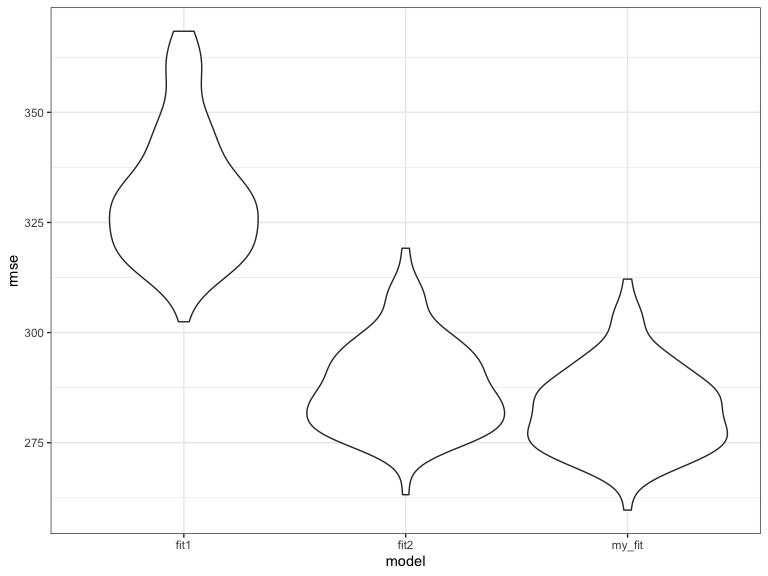
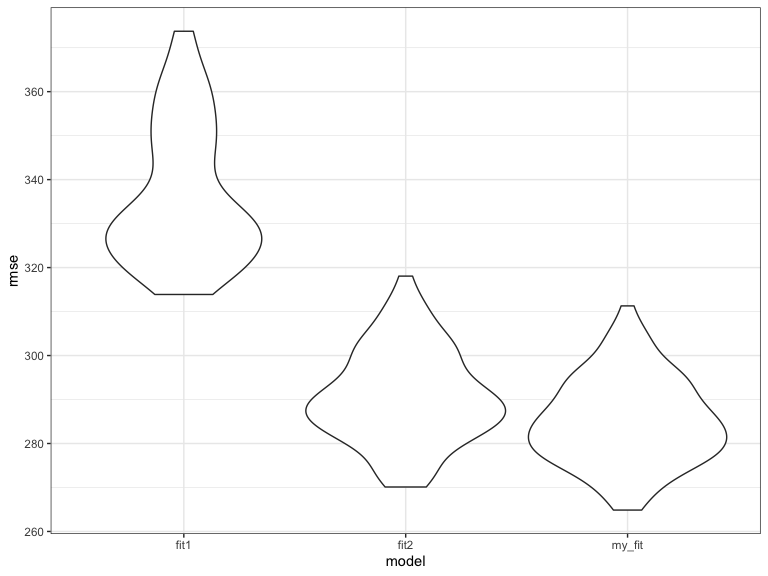
Problem 1 : cross validation

diff --git a/p8105_hw6_gl2677.md b/p8105_hw6_gl2677.md
@@ -44,3 +44,29 @@ simpler, I only choose 4 variables which are highly associated with the
 birthweight. The model I use only contain the main effect of the baby’s
 sex, baby’s length at birth, baby’s head circumference at birth
 (centimeters) and gestational age in weeks.
+
+``` r
+fit1 = lm(bwt ~ blength + gaweeks, data = birthweight)
+fit2 = lm(bwt ~ bhead * blength * babysex, data = birthweight)
+```
+
+``` r
+cv_df = 
+  crossv_mc(birthweight, 100, test = 0.2) %>%
+  mutate(
+    train = map(train, as_tibble),
+    test = map(test, as_tibble)) %>% 
+  mutate(
+    fit1_model = map(.x = train, ~lm(bwt ~ blength + gaweeks, 
+                                     data = .x)),
+    fit2_model = map(.x = train, ~lm(bwt ~ bhead * blength * babysex, 
+                                     data = .x)),
+    my_fit_model = map(.x = train, ~lm(bwt ~ babysex + blength + gaweeks + bhead + mheight,
+                                     data = .x))
+    ) %>% 
+    mutate(
+    rmse_fit1 = map2(.x = fit1_model, .y = test, ~rmse(.x, .y)),
+    rmse_fit2 = map2(.x = fit2_model, .y = test, ~rmse(.x, .y)),
+    rmse_my_fit = map2(.x = my_fit_model, .y = test, ~rmse(.x, .y))
+  )
+```
